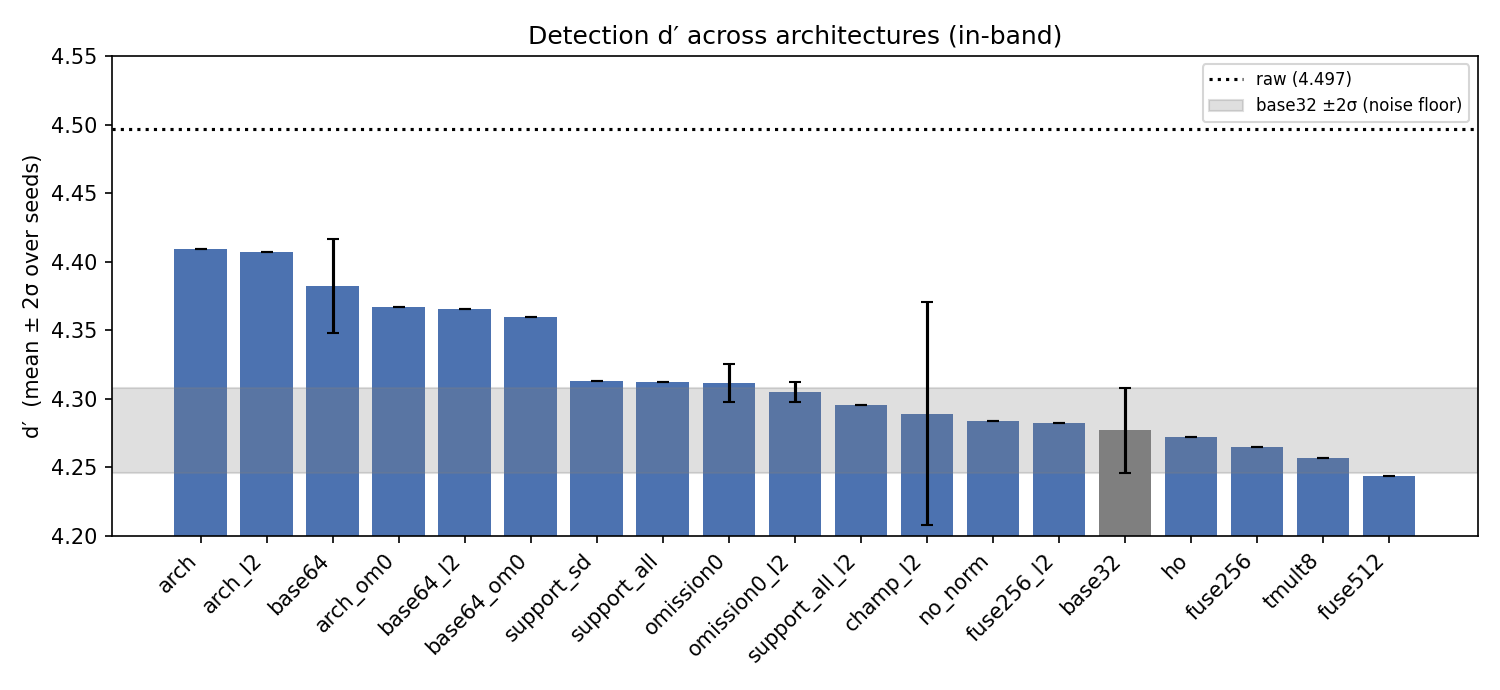
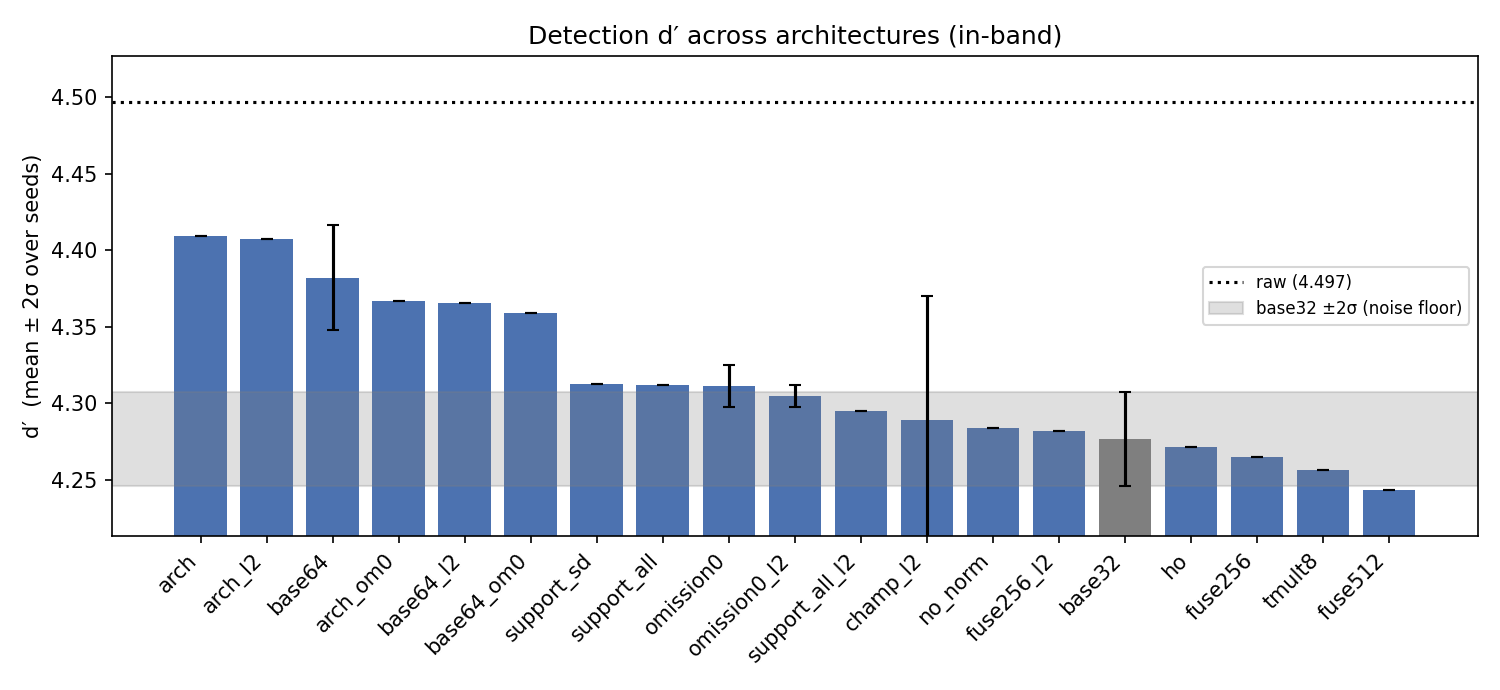
Methods: expand the fold-geometry explanation (why fold width->features, 1-D U-Net along depth; 1d/2d/orig controls). Figures: wire origdi in as a distinct highlighted 'published reference' bar in F1 (crimson + edge + legend), robust to not-yet-scored configs; adaptive F1 y-limits

diff --git a/code/figures/make_figures.py b/code/figures/make_figures.py
@@ -58,18 +58,26 @@ CFG = [
     ("tmult8", "ib_tmult8_s0", "charb"),
     ("no_norm", "ib_no_norm_s0", "charb"),
     ("ho", "ib_ho_s0", "charb"),
+    # published reference — the ORIGINAL DeepInterpolation ephys architecture (Lecoq 2021),
+    # temporal-only, no spatial blind spot; highlighted distinctly in F1.
+    ("origdi", "ib_origdi_s*", "orig"),
     # NOTE: the SUPPORT-scale runs (om0_scale / om1_scale) are trained ~7x longer and are
     # deliberately NOT ranked against the short-budget models here — they appear only in F8,
     # the training-length comparison.
 ]
-PATS = {c[0]: c[1] for c in CFG}
-NAMES = [c[0] for c in CFG]
 
 
 def labels(pat):
     if "*" in pat:
         return [Path(f).name[:-11] for f in sorted(glob.glob(str(S / (pat + "_dprime.csv"))))]
     return [pat] if (S / (pat + "_dprime.csv")).exists() else []
+
+
+# Keep only configurations with at least one scored seed, so runs still training (e.g. origdi
+# before it lands) don't break the plots — they appear automatically once their CSVs exist.
+CFG = [c for c in CFG if labels(c[1])]
+PATS = {c[0]: c[1] for c in CFG}
+NAMES = [c[0] for c in CFG]
 
 
 def load(lbl, kind):
@@ -105,17 +113,30 @@ def cfg_unit(pat, kind, col):
 dmean = [st.mean(per_seed(p, "dprime", "dprime_deep")) for p in PATS.values()]
 dsd = [(st.stdev(v) if len(v) > 1 else 0.0) for v in (per_seed(p, "dprime", "dprime_deep") for p in PATS.values())]
 order = np.argsort(dmean)[::-1]
+
+def _bar_color(name):
+    if name == "origdi":                     # published original-DI reference — highlighted
+        return "#c44e52"
+    if name == "base32":                     # our reference body
+        return "#7f7f7f"
+    return "#4c72b0"
+
 fig, ax = plt.subplots(figsize=(10, 4.6))
 ax.bar(range(len(order)), [dmean[i] for i in order], yerr=[2 * dsd[i] for i in order],
-       capsize=3, color=["#7f7f7f" if NAMES[i] == "base32" else "#4c72b0" for i in order])
+       capsize=3, color=[_bar_color(NAMES[i]) for i in order],
+       edgecolor=["k" if NAMES[i] == "origdi" else "none" for i in order],
+       linewidth=[1.4 if NAMES[i] == "origdi" else 0.0 for i in order])
 ax.axhline(RAW, ls=":", c="k", label=f"raw ({RAW:.3f})")
 ci = NAMES.index("base32")
 ax.axhspan(dmean[ci] - 2 * dsd[ci], dmean[ci] + 2 * dsd[ci], color="gray", alpha=0.25,
            label="base32 ±2σ (noise floor)")
+if "origdi" in NAMES:                        # legend swatch for the highlighted reference
+    ax.bar([0], [0], color="#c44e52", edgecolor="k", linewidth=1.4,
+           label="original DI (published reference)")
 ax.set_xticks(range(len(order)))
 ax.set_xticklabels([NAMES[i] for i in order], rotation=45, ha="right")
 ax.set_ylabel("d′  (mean ± 2σ over seeds)")
-ax.set_ylim(4.2, 4.55)
+ax.set_ylim(min(dmean) - 0.03, max(RAW, max(dmean)) + 0.03)
 ax.set_title("Detection d′ across architectures (in-band)")
 ax.legend(fontsize=8)
 fig.tight_layout(); fig.savefig(FIG / "f1_dprime_ranking.png", dpi=150); plt.close(fig)

diff --git a/sections/02-methods.md b/sections/02-methods.md
@@ -40,6 +40,19 @@ scattered onto the 192 × 4 probe grid and split into the two branches:
 | loss | Charbonnier |
 | size | ~0.85 M parameters (U-Net ≈ 87%) |
 
+**Why `fold`.** A Neuropixels 1.0 probe is a long, narrow sensor: its 384 channels sit on a
+~192-row-deep × 4-column-wide grid, and a spike appears on a small cluster of *vertically* adjacent
+channels — so the informative spatial axis is **depth**, not the 4-wide axis. A full 2-D U-Net over
+the (192 × 4) grid would spend most of its convolutions on the width dimension, where there is little
+to learn. The `fold` geometry instead **folds the 4 width columns into the feature axis** and runs a
+**1-D U-Net along probe depth only**: every depth row carries its 4 columns as 4× the feature maps, so
+the network stays fully geometry-aware (no channel is discarded) while convolving along a single axis.
+In our geometry search this matched the accuracy of the 2-D grid model at a fraction of the cost,
+which is why every swept variant is built on the `fold` body. Two alternative geometries are kept as
+controls: `1d`, which orders channels by index and ignores the grid, and `2d` / `orig`, the full
+probe-grid 2-D U-Net — the latter being the original DeepInterpolation architecture (the `origdi`
+baseline).
+
 ```{mermaid}
 flowchart TD
     IN["Input context<br/>(B, 63, 384)"] --> SC["grid.scatter<br/>(B, 63, 192, 4)<br/>384 ch → 192×4 grid"]